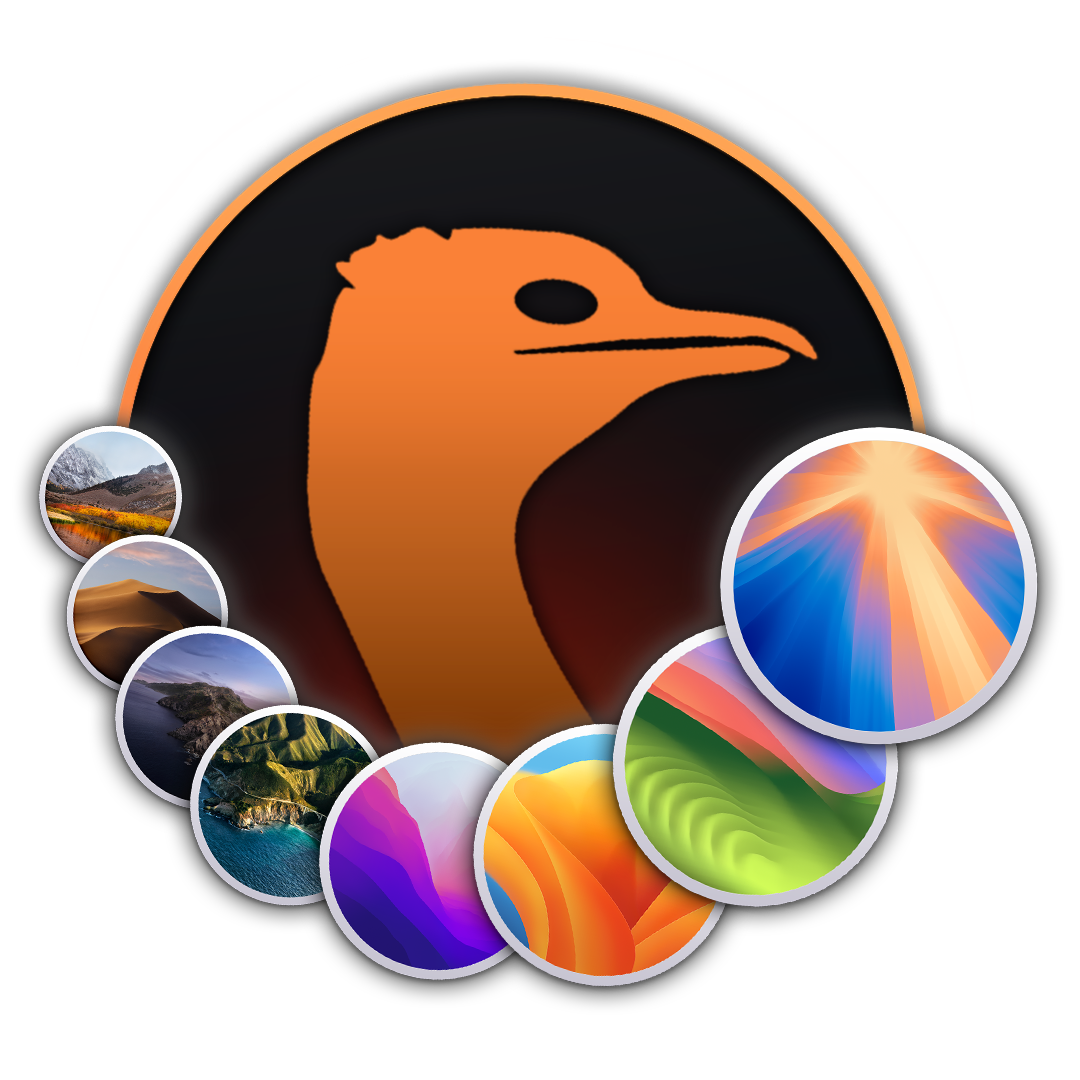
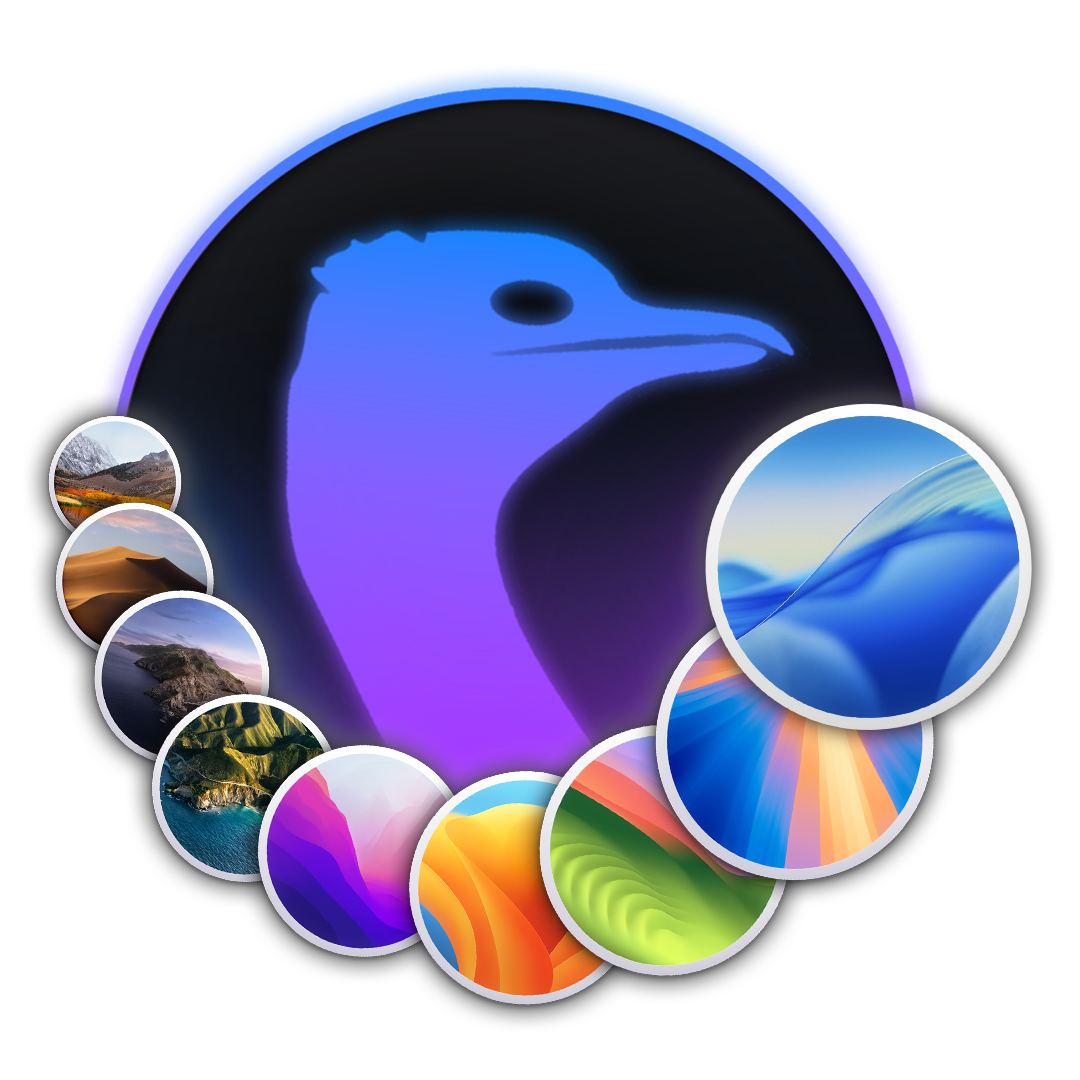
Rebrand

diff --git a/README.md b/README.md
@@ -1,4 +1,4 @@
-<p align="center"><a href="https://coopydood.github.io/ultimate-macOS-KVM"><img src="https://github.com/Coopydood/ultimate-macOS-KVM/blob/dev/resources/images/bannerAlphaBasicPortrait.png?raw=true" alt="Logo" width="250"/></a></p>
+<p align="center"><a href="https://coopydood.github.io/ultimate-macOS-KVM"><img src="https://github.com/Coopydood/ultimate-macOS-KVM/blob/dev/resources/images/ultmosBannerTextPortrait.png?raw=true" alt="Logo" width="250"/></a></p>
 
 <h2 align="center">v0.14.0</h2>
 

diff --git a/docs/changelogs/v0-14-0.md b/docs/changelogs/v0-14-0.md
@@ -5,6 +5,7 @@
 This update includes the following features / fixes / changes:
 
 - Full macOS Tahoe support
+- Major ULTMOS rebrand; new logo and typography
 - Added macOS Tahoe support to AutoPilot
 - Added support for auto-downloading macOS Tahoe in AutoPilot
 - *1, 2, skip a few, 15, 26????*
